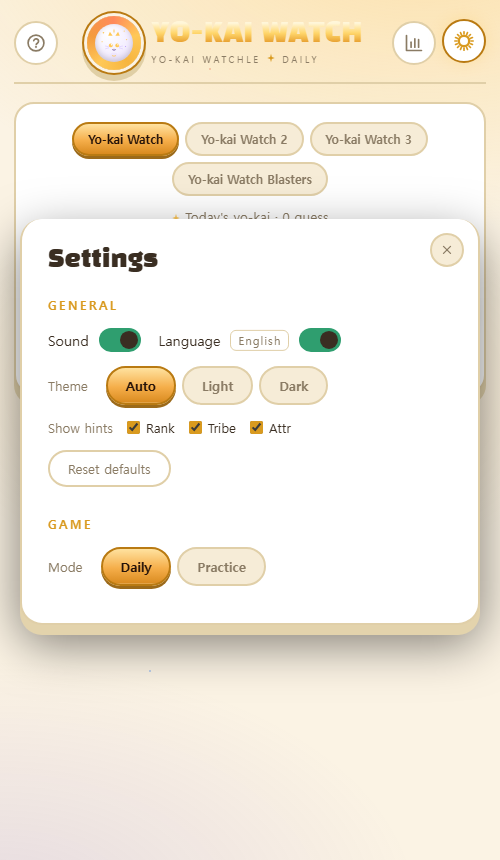
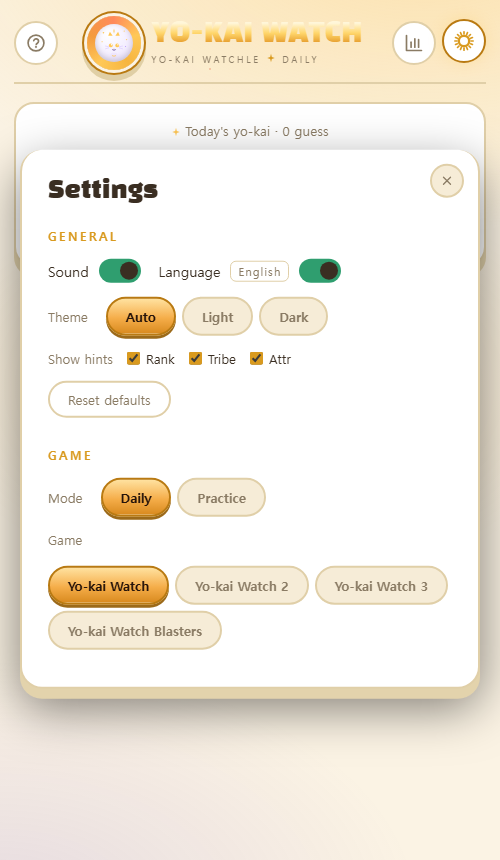
Rev 6.7.2: move game/version picker back to settings as segmented chips

Changed region(s): [[0.0, 0.1209, 1.0, 0.8465], [0.0, 0.1814, 0.06, 0.4535]]

diff --git a/src/index.html b/src/index.html
@@ -110,16 +110,6 @@
 
     <!-- 게임 보드 -->
     <section id="game-board" class="card game-board">
-      <div class="game-bar" id="game-bar">
-        <div class="chip-row">
-          <span class="chip-label" id="game-seg-label">게임</span>
-          <div class="seg seg-board" id="game-seg" role="group" aria-label="Game"></div>
-        </div>
-        <div class="chip-row" id="version-row">
-          <span class="chip-label" id="version-seg-label">버전</span>
-          <div class="seg seg-board" id="version-seg" role="group" aria-label="Version"></div>
-        </div>
-      </div>
       <p id="mode-info" class="mode-info"></p>
       <div id="guesses-container" class="guesses-container cols-all">
         <div class="guess-header">
@@ -273,6 +263,14 @@
       <button type="button" class="seg-btn active" data-mode="daily"><span id="seg-daily">일일 도전</span></button>
       <button type="button" class="seg-btn" data-mode="practice"><span id="seg-practice">연습 모드</span></button>
     </div>
+  </div>
+  <div class="set-row">
+    <span id="game-seg-label" class="set-label">게임</span>
+    <div class="seg" id="game-seg" role="group" aria-label="Game"></div>
+  </div>
+  <div class="set-row" id="version-seg-row">
+    <span id="version-seg-label" class="set-label">버전</span>
+    <div class="seg" id="version-seg" role="group" aria-label="Version"></div>
   </div>
 </section>
 

diff --git a/src/style.css b/src/style.css
@@ -498,14 +498,8 @@ a { color: inherit; }
   border-color: var(--gold-deep); box-shadow: 0 3px 0 #9c6a1a;
 }
 
-/* 게임/버전 선택 칩 (보드 상단) */
-.game-bar { display: flex; flex-direction: column; gap: 6px; margin-bottom: 12px; }
-.chip-row { display: flex; align-items: center; gap: 8px; flex-wrap: wrap; }
-.chip-row[hidden] { display: none; }
-.chip-label { font-size: 11px; font-weight: 700; letter-spacing: 0.14em; color: var(--text-muted); }
-.seg-board { justify-content: center; }
-.seg-board .seg-btn { padding: 7px 14px; font-size: 12px; }
-#version-seg[hidden] { display: none; }
+/* 게임/버전 선택 칩 (설정) */
+#version-seg-row[hidden] { display: none; }
 #new-game-btn[hidden] { display: none; }
 
 /* ---------- Stats ---------- */
@@ -631,7 +625,6 @@ a { color: inherit; }
   .guess-form .text-input { padding: 12px 14px; font-size: 16px; }
   .btn-primary { padding: 12px 16px; }
   .text-input::placeholder { font-size: 14px; }
-  .seg-board .seg-btn { padding: 6px 10px; font-size: 11px; }
 
   .result-medal { width: 92px; height: 92px; }
   .result-medal-core { width: 72px; height: 72px; }

diff --git a/src/app.js b/src/app.js
@@ -678,7 +678,7 @@
     });
 
     const vSeg = $('version-seg');
-    const vRow = $('version-row');
+    const vRow = $('version-seg-row');
     vSeg.innerHTML = '';
     const g = gameById(state.gameId);
     if (g.versions.length > 1) {

diff --git a/README_KO.md b/README_KO.md
@@ -103,6 +103,7 @@ python -m http.server 8000
 - **Rev 6.6** — 모바일 최적화: 320~400px 화면에서 추측 행의 이름 열 비중을 늘리고 카드·헤더·셀을 축소해 한글 이름 말림을 제거, 휴대폰에서 게임/버전 셀렉트를 세로로 배치, 탭 하이라이트와 더블탭 확대 방지(PC 레이아웃은 그대로)
 - **Rev 6.7** — 설정의 게임/버전 선택을 보드 상단 칩(seg)으로 옮기고, 포획 도감·자동완성을 제거해 인게임 검색을 차단, 모드 정보 텍스트 간소화
 - **Rev 6.7.1** — 헤더의 "DAILY" 문구가 연습 모드에서 "PRACTICE"로 바뀌고, 보드 칩 행에 '게임/버전' 라벨을 추가, "새 게임" 버튼을 연습 모드에서만 표시(일일 모드는 자정 KST 기준 하루 1회)
+- **Rev 6.7.2** — 게임/버전 선택부를 다시 설정으로 이동(테마/모드와 같은 세그먼트 칩, '게임/버전' 라벨)해 보드를 깔끔하게 유지
 
 ## 라이선스
 

diff --git a/README.md b/README.md
@@ -103,6 +103,7 @@ You only need to run the `tools/` pipeline when regenerating `src/data.js`.
 - **Rev 6.6** — mobile optimization: a wider name column with tighter cards, header and cells for 320–400px screens (Korean names no longer clipped), stacked game/version selects on phones, and tap-highlight / double-tap-zoom prevention; the PC layout is unchanged
 - **Rev 6.7** — moved game/version selection from settings to segmented chips on the board, removed the collection dex and the name autocomplete (no in-game yo-kai lookup), and simplified mode-info
 - **Rev 6.7.1** — the header "DAILY" badge now switches to "PRACTICE" in practice mode, the board chip rows have "Game / Version" labels, and the "New Game" button only appears in practice mode (the daily challenge is once per day at midnight KST)
+- **Rev 6.7.2** — moved the game/version picker back into Settings (as segmented chips matching Theme/Mode, labeled Game/Version) so the board stays clean
 
 ## License
 
